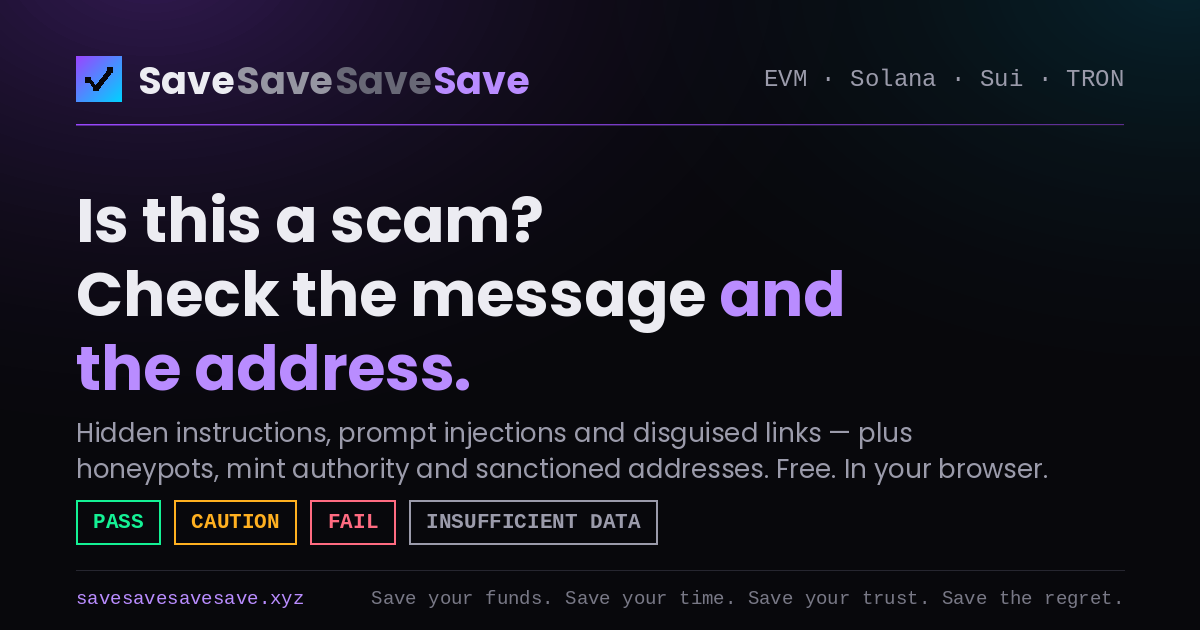
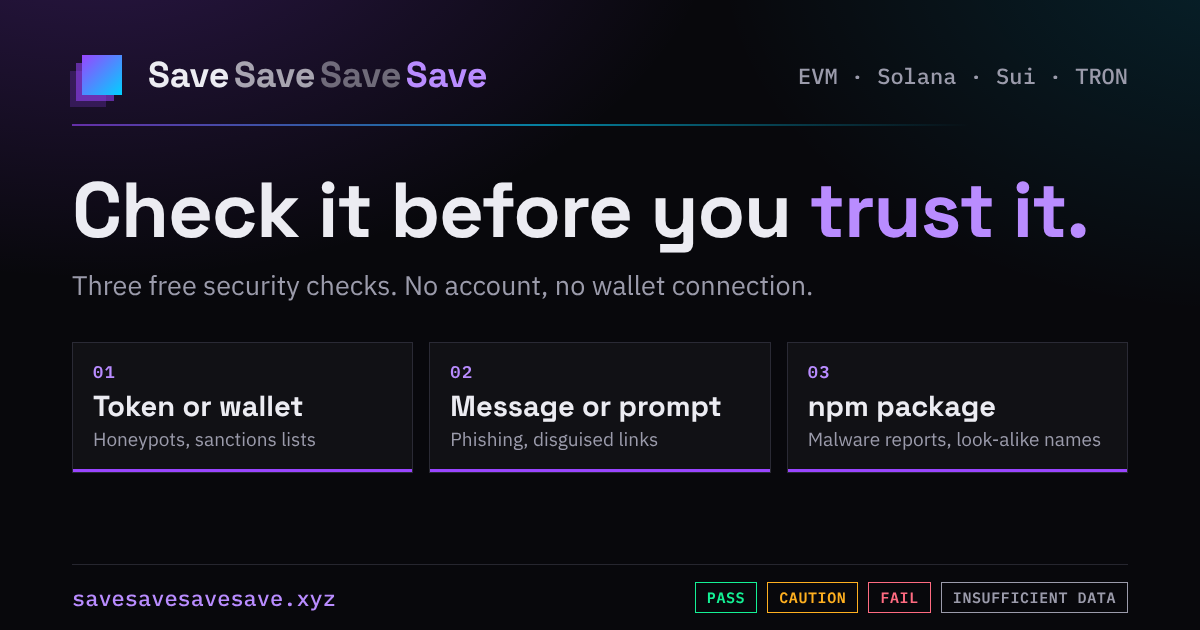
Preview card: match the redesigned homepage
og-image.png still showed the old hero (message and address only, Poppins).
It now shows the current headline, the three checks and the verdict labels,
in the site's own fonts. Rendered from og-image.html by og-image.js;
icons.py no longer writes the card.

Claude-Session: https://claude.ai/code/session_01X4H8H6WFguv98STku3PxQn

diff --git a/og-image.html b/og-image.html
@@ -1,0 +1,84 @@
+<!doctype html>
+<!-- Source for og-image.png (1200x630), the link-preview card.
+     Rendered by og-image.js with the site's own fonts and colours.
+     Edit this file, then run: node og-image.js -->
+<html lang="en">
+<head>
+<meta charset="utf-8">
+<meta name="robots" content="noindex">
+<title>Preview card source</title>
+<style>
+@font-face{font-family:'Space Grotesk';font-weight:700;src:url(fonts/space-grotesk-latin-700-normal.woff2) format('woff2');}
+@font-face{font-family:'IBM Plex Sans';font-weight:400;src:url(fonts/ibm-plex-sans-latin-400-normal.woff2) format('woff2');}
+@font-face{font-family:'IBM Plex Sans';font-weight:500;src:url(fonts/ibm-plex-sans-latin-500-normal.woff2) format('woff2');}
+@font-face{font-family:'IBM Plex Mono';font-weight:500;src:url(fonts/ibm-plex-mono-latin-500-normal.woff2) format('woff2');}
+@font-face{font-family:'IBM Plex Mono';font-weight:600;src:url(fonts/ibm-plex-mono-latin-600-normal.woff2) format('woff2');}
+:root{
+  --ink:#08080C; --surface:#131318; --border:#2A2A35; --text:#ECECF2; --muted:#9B9BAB;
+  --accent:#B98CFF; --accent-solid:#9945FF; --accent-2:#00D1FF;
+  --safe:#14F195; --caution:#FFB020; --danger:#FF6B81;
+}
+*{box-sizing:border-box;margin:0;}
+html,body{width:1200px;height:630px;overflow:hidden;}
+body{
+  background:
+    radial-gradient(ellipse 900px 560px at 8% -18%, rgba(153,69,255,0.26), transparent 70%),
+    radial-gradient(ellipse 760px 520px at 104% -8%, rgba(0,209,255,0.13), transparent 70%),
+    var(--ink);
+  color:var(--text); font-family:'IBM Plex Sans',sans-serif; -webkit-font-smoothing:antialiased;
+  padding:52px 72px 0; display:flex; flex-direction:column;
+}
+.top{display:flex; align-items:center; justify-content:space-between;}
+.brand{display:flex; align-items:center; font-family:'Space Grotesk',sans-serif; font-weight:700; font-size:36px;}
+.mark{width:40px; height:40px; margin:0 26px 0 10px;
+  background:linear-gradient(135deg,var(--accent-solid),var(--accent-2));
+  box-shadow:-7px 7px 0 -1px rgba(153,69,255,0.55), -14px 14px 0 -2px rgba(153,69,255,0.22);}
+.wm{margin-right:0.12em;}
+.wm:nth-of-type(2){opacity:.68} .wm:nth-of-type(3){opacity:.42} .wm:nth-of-type(4){color:var(--accent);margin:0}
+.chains{font-family:'IBM Plex Mono',monospace; font-weight:500; font-size:22px; color:var(--muted);}
+.rule{height:2px; margin:26px 0 0; opacity:.6;
+  background:linear-gradient(90deg,var(--accent-solid),var(--accent-2) 45%,transparent 85%);}
+h1{font-family:'Space Grotesk',sans-serif; font-weight:700; font-size:78px; line-height:1.04;
+  letter-spacing:-0.015em; margin:44px 0 0;}
+h1 em{font-style:normal; color:var(--accent);}
+.sub{font-size:27px; color:var(--muted); margin:16px 0 0;}
+.tools{display:grid; grid-template-columns:repeat(3,1fr); gap:16px; margin:40px 0 0;}
+.tool{background:rgba(19,19,24,0.85); border:1px solid var(--border); padding:18px 20px 20px;
+  box-shadow:inset 0 -3px 0 var(--accent-solid);}
+.num{font-family:'IBM Plex Mono',monospace; font-weight:600; font-size:17px; letter-spacing:.08em; color:var(--accent);}
+.title{font-family:'Space Grotesk',sans-serif; font-weight:700; font-size:29px; line-height:1.15; margin-top:6px;}
+.desc{font-size:19px; color:var(--muted); margin-top:5px; line-height:1.3;}
+.foot{margin-top:auto; height:66px; border-top:1px solid #26262F; display:flex; align-items:center; justify-content:space-between;}
+.url{font-family:'IBM Plex Mono',monospace; font-weight:500; font-size:22px; color:var(--accent);}
+.badges{display:flex; gap:10px;}
+.b{font-family:'IBM Plex Mono',monospace; font-weight:600; font-size:15px; letter-spacing:.04em;
+  padding:5px 11px; border:1.5px solid currentColor;}
+</style>
+</head>
+<body>
+  <div class="top">
+    <div class="brand"><div class="mark"></div><span class="wm">Save</span><span class="wm">Save</span><span class="wm">Save</span><span class="wm">Save</span></div>
+    <div class="chains">EVM · Solana · Sui · TRON</div>
+  </div>
+  <div class="rule"></div>
+
+  <h1>Check it before you <em>trust it.</em></h1>
+  <p class="sub">Three free security checks. No account, no wallet connection.</p>
+
+  <div class="tools">
+    <div class="tool"><div class="num">01</div><div class="title">Token or wallet</div><div class="desc">Honeypots, sanctions lists</div></div>
+    <div class="tool"><div class="num">02</div><div class="title">Message or prompt</div><div class="desc">Phishing, disguised links</div></div>
+    <div class="tool"><div class="num">03</div><div class="title">npm package</div><div class="desc">Malware reports, look-alike names</div></div>
+  </div>
+
+  <div class="foot">
+    <div class="url">savesavesavesave.xyz</div>
+    <div class="badges">
+      <span class="b" style="color:var(--safe)">PASS</span>
+      <span class="b" style="color:var(--caution)">CAUTION</span>
+      <span class="b" style="color:var(--danger)">FAIL</span>
+      <span class="b" style="color:var(--muted)">INSUFFICIENT DATA</span>
+    </div>
+  </div>
+</body>
+</html>

diff --git a/og-image.js b/og-image.js
@@ -1,0 +1,18 @@
+// Renders og-image.html to og-image.png (1200x630), the link-preview card.
+// Usage: node og-image.js
+const { chromium } = require('playwright');
+const path = require('path');
+
+(async () => {
+  const browser = await chromium.launch();
+  const page = await browser.newPage({ viewport: { width: 1200, height: 630 }, deviceScaleFactor: 1 });
+  await page.goto('file://' + path.join(__dirname, 'og-image.html'));
+  await page.evaluate(() => document.fonts.ready);
+  const missing = await page.evaluate(() =>
+    ['700 10px "Space Grotesk"', '400 10px "IBM Plex Sans"', '600 10px "IBM Plex Mono"']
+      .filter(f => !document.fonts.check(f)));
+  if (missing.length) throw new Error('Fonts not loaded: ' + missing.join(', '));
+  await page.screenshot({ path: path.join(__dirname, 'og-image.png'), clip: { x: 0, y: 0, width: 1200, height: 630 } });
+  await browser.close();
+  console.log('wrote og-image.png');
+})().catch(e => { console.error(e); process.exit(1); });

diff --git a/icons.py b/icons.py
@@ -2,7 +2,8 @@
 """
 Regenerate the icon set in the new identity: hard squares, purple → blue.
 
-Writes favicon.svg, apple-touch-icon.png (180) and og-image.png (1200x630).
+Writes favicon.svg and apple-touch-icon.png (180).
+og-image.png is rendered separately: node og-image.js
 Nothing here is hand-edited afterwards; re-run it to change the mark.
 """
 from PIL import Image, ImageDraw, ImageFont
@@ -86,60 +87,5 @@ touch = Image.new("RGB", (180, 180), INK)
 touch.paste(mark(132), (24, 24))
 touch.save(REPO / "apple-touch-icon.png")
 
-# ------------------------------------------------------------- og-image
-W, H = 1200, 630
-og = Image.new("RGB", (W, H), INK)
-og = radial_glow(og, (150, -40), 520, (153, 69, 255), 0.30)
-og = radial_glow(og, (1180, -20), 460, (0, 209, 255), 0.14)
-d = ImageDraw.Draw(og)
-
-f_brand = ImageFont.truetype(POPPINS_B, 38)
-f_h1 = ImageFont.truetype(POPPINS_B, 62)
-f_sub = ImageFont.truetype(POPPINS_R, 26)
-f_badge = ImageFont.truetype(MONO_B, 21)
-f_foot = ImageFont.truetype(MONO_R, 19)
-f_chains = ImageFont.truetype(MONO_R, 24)
-
-# brand row
-og.paste(mark(46), (76, 56))
-x = 138
-for word, colour in [("Save", TEXT), ("Save", (150, 150, 162)), ("Save", (104, 104, 118)), ("Save", ACCENT_TEXT)]:
-    d.text((x, 54), word, font=f_brand, fill=colour)
-    x += d.textlength(word, font=f_brand) + 2
-
-chains = "EVM · Solana · Sui · TRON"
-d.text((W - 76 - d.textlength(chains, font=f_chains), 66), chains, font=f_chains, fill=MUTED)
-
-# gradient hairline, same device as the site header
-line = diagonal_gradient((W - 152, 2), PURPLE, (24, 24, 32))
-og.paste(line, (76, 124))
-
-# headline
-d.text((76, 176), "Is this a scam?", font=f_h1, fill=TEXT)
-part1 = "Check the message "
-d.text((76, 250), part1, font=f_h1, fill=TEXT)
-d.text((76 + d.textlength(part1, font=f_h1), 250), "and", font=f_h1, fill=ACCENT_TEXT)
-d.text((76, 324), "the address.", font=f_h1, fill=ACCENT_TEXT)
-
-# subtitle
-for i, line_text in enumerate([
-    "Hidden instructions, prompt injections and disguised links — plus",
-    "honeypots, mint authority and sanctioned addresses. Free. In your browser.",
-]):
-    d.text((76, 414 + i * 36), line_text, font=f_sub, fill=MUTED)
-
-# verdict badges
-bx = 76
-for label, colour in [("PASS", SAFE), ("CAUTION", CAUTION), ("FAIL", DANGER), ("INSUFFICIENT DATA", MUTED)]:
-    tw = d.textlength(label, font=f_badge)
-    d.rectangle([bx, 500, bx + tw + 34, 544], outline=colour, width=2)
-    d.text((bx + 17, 510), label, font=f_badge, fill=colour)
-    bx += tw + 34 + 14
-
-d.line([(76, 570), (W - 76, 570)], fill=(38, 38, 48), width=1)
-d.text((76, 588), "savesavesavesave.xyz", font=f_foot, fill=ACCENT_TEXT)
-tag = "Save your funds. Save your time. Save your trust. Save the regret."
-d.text((W - 76 - d.textlength(tag, font=f_foot), 588), tag, font=f_foot, fill=(120, 120, 134))
-
-og.save(REPO / "og-image.png")
-print("wrote favicon.svg, apple-touch-icon.png, og-image.png")
+# og-image.png is rendered from og-image.html by og-image.js.
+print("wrote favicon.svg, apple-touch-icon.png")
